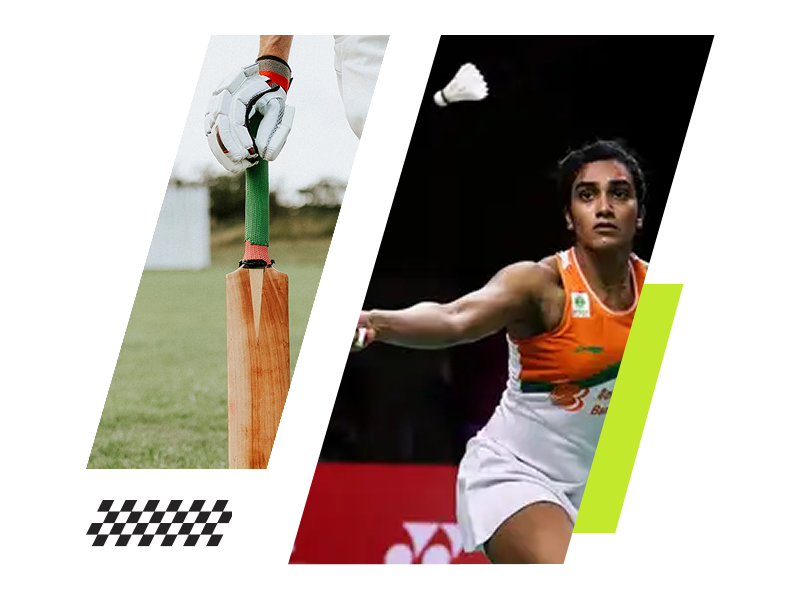
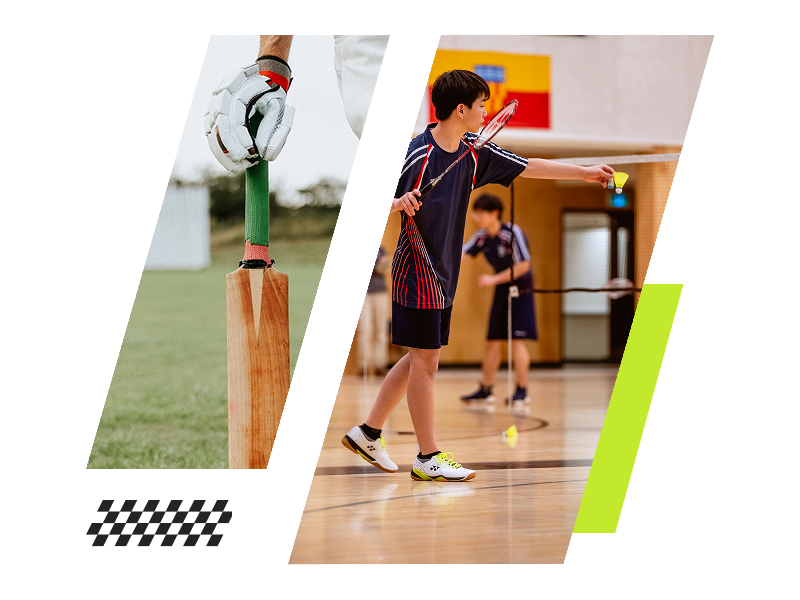
added some imgchanges

Changed region(s): [[0.3438, 0.06, 0.9062, 0.96]]

diff --git a/src/App.jsx b/src/App.jsx
@@ -18,6 +18,7 @@ import shuttle from './assets/shuttle.jpg'
 import laksh from './assets/laksh.png'
 import endiya from './assets/endiya.png'
 import gopi from './assets/gopichand.png'
+import tabletennis from './assets/tabletennis.jpg'
 
 
 function App() {
@@ -88,7 +89,7 @@ function App() {
                 <a
                   className="nav-link btn px-3"
                   style={{ borderRadius: '20px' }}
-                  href="#register"
+                  href="https://96r19ce4.forms.app/sports-registration-form" target="_blank" rel="noopener noreferrer"
                 >
                   Register
                 </a>
@@ -116,7 +117,7 @@ function App() {
             </div>
             <div className="col-12 col-md-6 col-lg-6 d-flex justify-content-center">
               <div className="card headcard p-3">
-                <img src={batminton} className="card-img-top" alt="Game On" />
+                <img src={tabletennis} className="card-img-top" alt="Game On" />
                 <div className="card-body pb-0">
                   <h6 className="fw-bold">Jun 6-7, 2025</h6>
                   <h1 className="mb-3">Bengaluru</h1>
@@ -150,12 +151,7 @@ Through the spirit of sport, we’re bringing founders, investors, and ecosystem
 
 Game On! isn’t about competition for its own sake — it’s about redefining what it means to lead, build, and thrive in today’s high-pressure world.
             </p>
-            <hr
-              style={{ border: '1px solid var(--primary-color)' }}
-            />
-            <a href="https://96r19ce4.forms.app/sports-registration-form" target="_blank" rel="noopener noreferrer">
-              <button className="register-btn">Learn More</button>
-            </a>
+            
           </div>
         </div>
         <div className="cardSection">
@@ -198,9 +194,13 @@ Game On! isn’t about competition for its own sake — it’s about redefining 
             </div>
           </div>
         </div>
+        <div className="card testimoniCard  p-4 ">
+          <p>"Sport is one of the best teachers of leadership. It builds not just physical endurance, but clarity, discipline, and emotional strength—qualities every entrepreneur needs."</p>
+          <h4>— Pullela Gopichand, Chief National Coach and Trustee Board Member at Endiya Partners</h4>
+        </div>
       </div>
 
-      <div className="container-fluid benefits" id="">
+      <div className="container-fluid benefits" id="movement">
         <div className="themeflat-container">
           <h4 className="text-center text-primary">
             Why Join the Movement
@@ -506,7 +506,7 @@ Pullela Gopichand brings decades of experience in building high-performance mind
       <section id='footer'>
         <div className="container">
           <div className="row">
-            <div className="col-4">
+            <div className="col-lg-4 col-md-4 col-sm-12">
               <h3 className='pb-2'>Game On</h3>
               <p style={{fontSize: '20px'}}>A first-of-its-kind sports tournament built to promote wellbeing, resilience, and leadership within India's startup ecosystem.</p>
             <ul className='d-flex gap-3'>
@@ -516,7 +516,7 @@ Pullela Gopichand brings decades of experience in building high-performance mind
             </ul>
 
             </div>
-            <div className="col-4">
+            <div className="col-lg-4 col-md-4 col-sm-12">
               <h3 className='pb-2'>Quick Links</h3>
               <ul>
                 <li><a href="#aboutus">About</a></li>
@@ -525,10 +525,10 @@ Pullela Gopichand brings decades of experience in building high-performance mind
                 <li><a href="#joinMovement">Register</a></li>
               </ul>
             </div>
-            <div className="col-4 contactUs">
+            <div className="col-lg-4 col-md-4 col-sm-12 contactUs">
               <h3 className='pb-2'>Contact</h3>
               <p>Email : <a href="mailto:gameon@endiya.com" >gameon@endiya.com</a></p>
-              <p>Media : <a href="anuradha@moatglobal.com" >anuradha@moatglobal.com</a></p>
+              <p>Media : <a href="mailto:anuradha@moatglobal.com" >anuradha@moatglobal.com</a></p>
             </div>
           </div>
           <hr />

diff --git a/src/App.css b/src/App.css
@@ -201,7 +201,16 @@ h2 {
 .cardSection .card{
   border: 0;
   height: 100%;
+  border: 2px solid black;
+  box-shadow: #c3e92d 5px 5px;
+  transition: all 0.3s ease;
 
+}
+
+.iCard{
+  border: 1px solid black;
+  box-shadow: #c3e92d 5px 5px;
+  transition: all 0.3s ease;
 }
 
 
@@ -215,8 +224,7 @@ h2 {
   padding-top: 100px;
   padding-bottom: 100px;
   background-color: var(--secondary-color);
-  padding-right: 100px;
-  padding-left: 100px;
+
 }
 
 .benefit-video {
